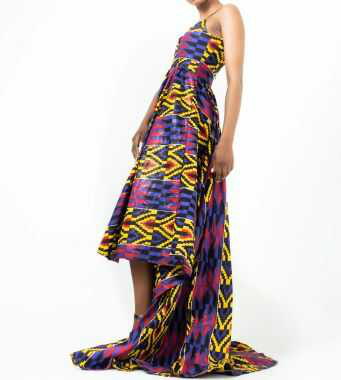
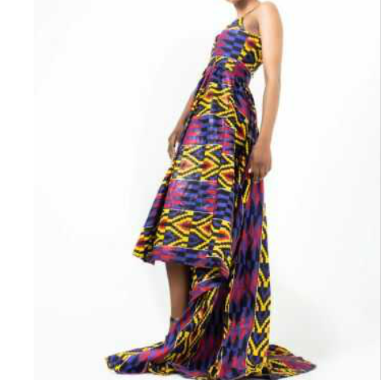
Minor tweaks to style sheet. Resize image

diff --git a/static/css/base.css b/static/css/base.css
@@ -733,6 +733,10 @@ input[name='q']::placeholder {
     border-top: transparent;
 }
 
+.bg-yellow {
+    background-color: #ffd700;
+}
+
 .fade {
     -webkit-transition: none;
     -o-transition: none;
@@ -978,7 +982,7 @@ input[name='q']::placeholder {
     }
 
     .header-container {
-        padding-top: 6.5rem;
+        padding-top: 5rem;
     } 
 }
 
